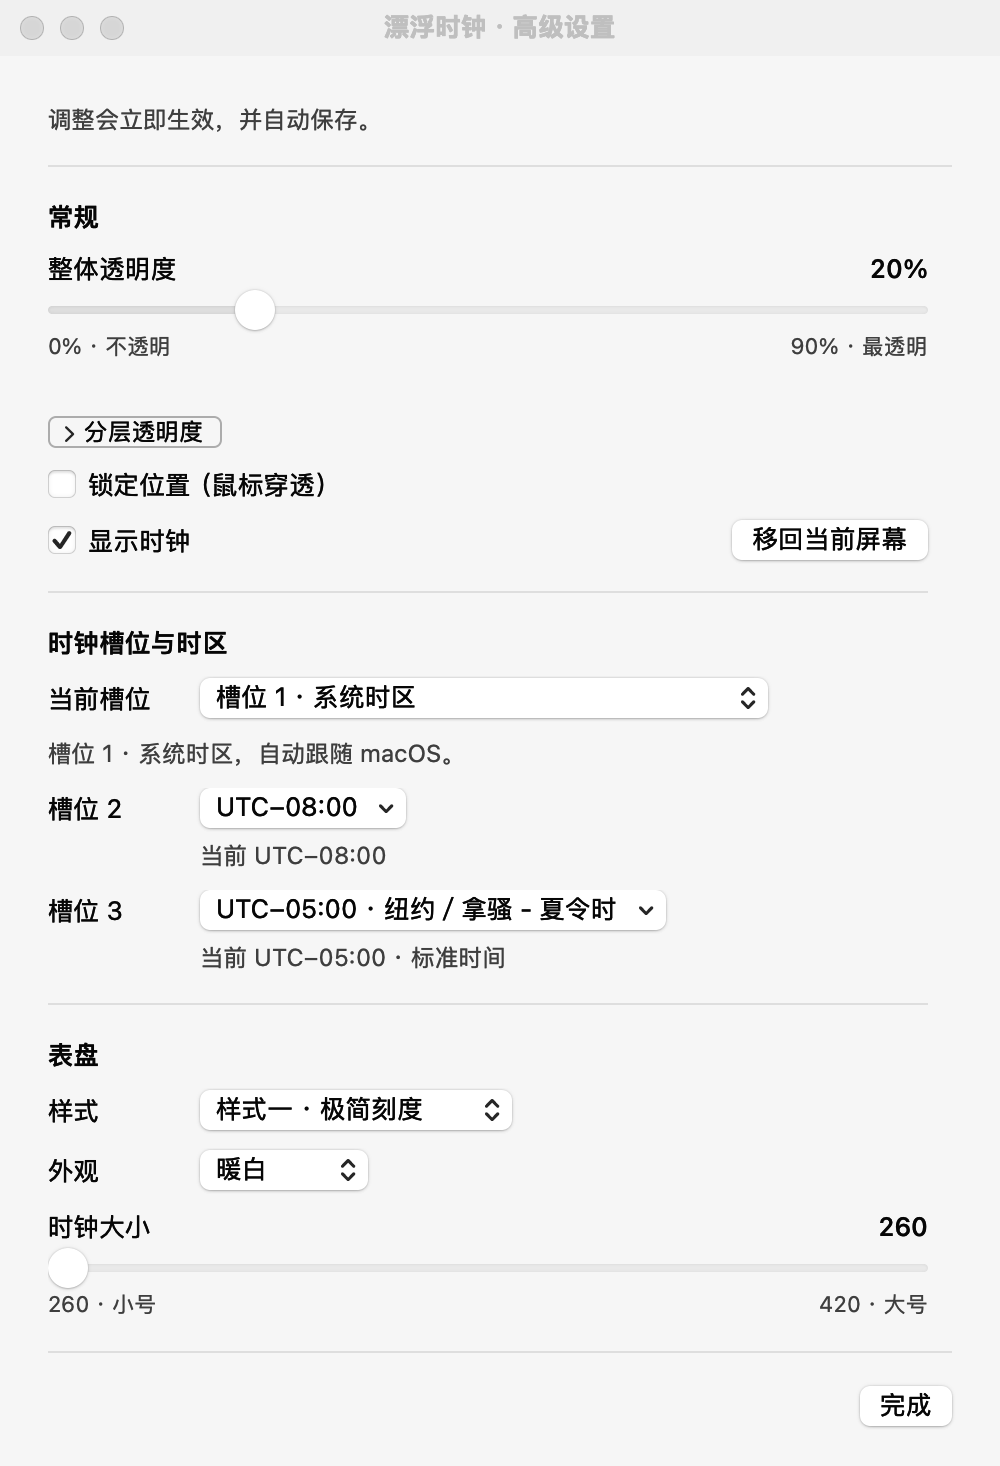
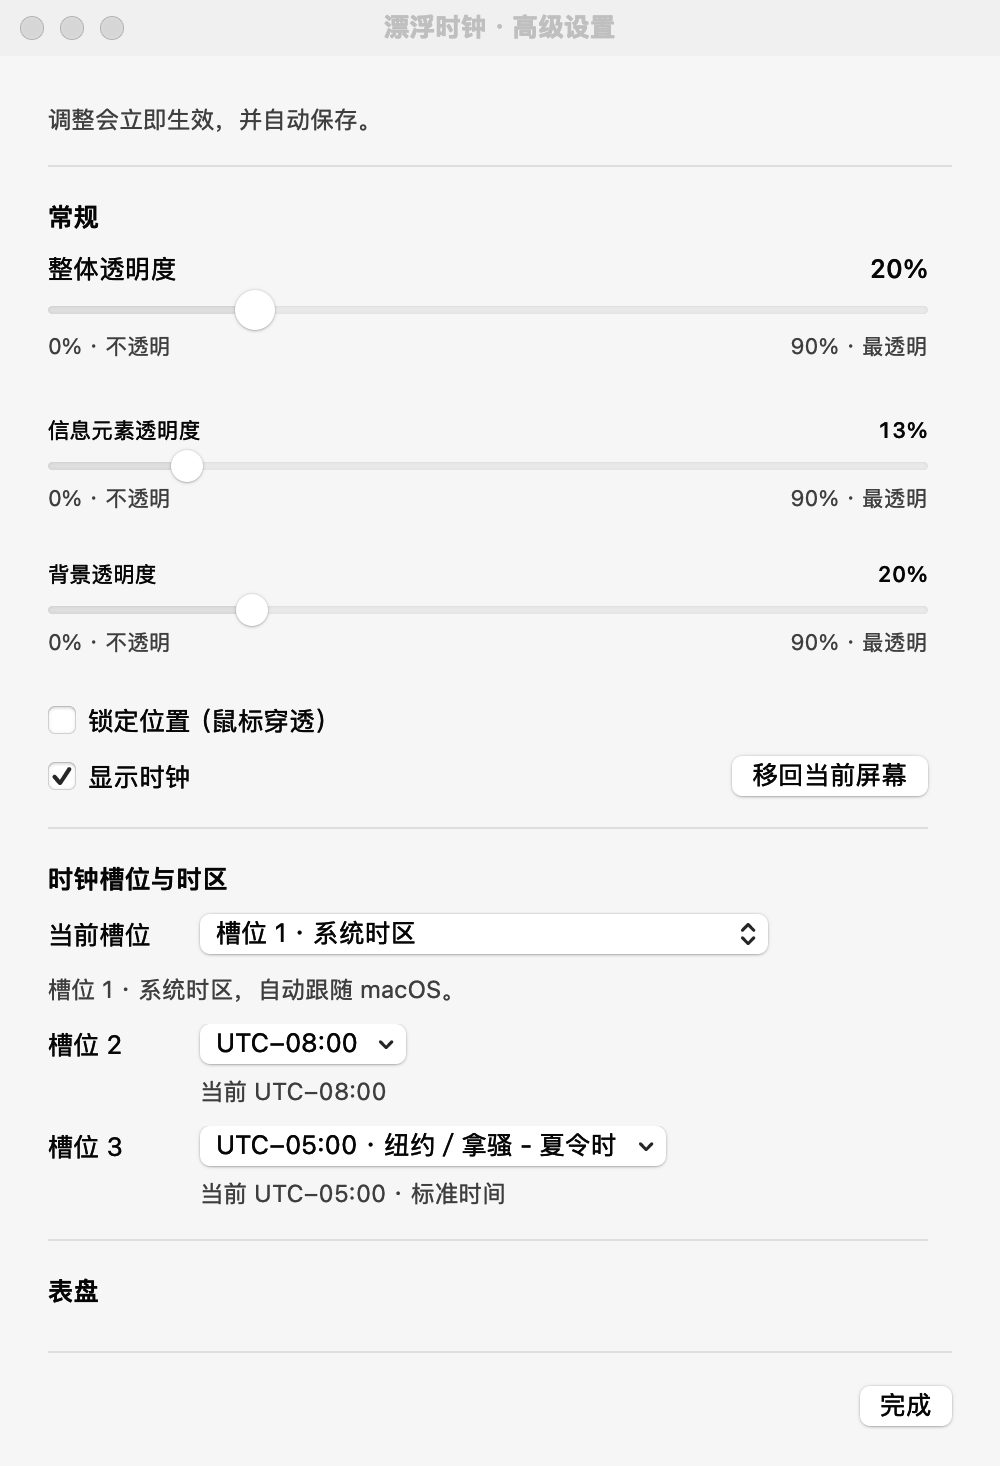
Show layer transparency controls in advanced settings

diff --git a/Sources/FloatingClock/RuntimeChecks.swift b/Sources/FloatingClock/RuntimeChecks.swift
@@ -105,28 +105,30 @@ enum RuntimeChecks {
         let layerItems = controller.menu.items.filter {
             $0.view === controller.contentTransparencyView || $0.view === controller.backgroundTransparencyView
         }
+        let layerViews = [controller.contentTransparencyView, controller.backgroundTransparencyView]
+        let layerRows = [advanced.contentTransparencyRow, advanced.backgroundTransparencyRow]
+        check(controller.transparencyView.slider.controlSize == .regular && advanced.transparencyRow.slider.controlSize == .regular &&
+              layerViews.allSatisfy { $0.slider.controlSize == .small } && layerRows.allSatisfy { $0.slider.controlSize == .small },
+              "overall transparency uses the regular native slider and both layers use small native sliders in both interfaces")
+        check(zip(layerViews, layerRows).allSatisfy { menuView, settingsRow in
+            let menuTitle = menuView.subviews.compactMap { $0 as? NSTextField }.first { $0.stringValue == menuView.title }
+            let settingsTitle = settingsRow.subviews.compactMap { $0 as? NSTextField }.first { $0.stringValue == settingsRow.title }
+            return menuTitle?.font?.pointSize == 11 && settingsTitle?.font?.pointSize == 11
+        }, "both interfaces use matching smaller labels for the layer sliders")
         let menuDisclosure = controller.transparencyDisclosureButton
-        let settingsDisclosure = advanced.transparencyDisclosureButton
         let disclosureMenuItem = controller.menu.items.first { $0.view === menuDisclosure }
         check(disclosureMenuItem != nil && menuDisclosure.frame.width == controller.transparencyView.frame.width &&
-              settingsDisclosure.frame.width > 0 && settingsDisclosure.frame.width == advanced.transparencyRow.frame.width &&
-              [menuDisclosure, settingsDisclosure].allSatisfy { button in
-                  [1, button.bounds.midX, button.bounds.maxX - 1].allSatisfy { x in
-                      let point = NSPoint(x: x, y: button.bounds.midY)
-                      return button.hitTest(button.convert(point, to: button.superview)) === button
-                  }
-              }, "both disclosure buttons cover and receive clicks across the full row")
+              [1, menuDisclosure.bounds.midX, menuDisclosure.bounds.maxX - 1].allSatisfy { x in
+                  let point = NSPoint(x: x, y: menuDisclosure.bounds.midY)
+                  return menuDisclosure.hitTest(menuDisclosure.convert(point, to: menuDisclosure.superview)) === menuDisclosure
+              }, "the menu disclosure button receives clicks across the full row")
         check(layerItems.count == 2 && layerItems.allSatisfy(\.isHidden) && !menuDisclosure.isExpanded &&
-              advanced.contentTransparencyRow.isHidden && advanced.backgroundTransparencyRow.isHidden && !settingsDisclosure.isExpanded,
-              "both transparency controls start with their layer sliders collapsed")
-        let collapsedHeight = scroll.documentView?.frame.height ?? 0
+              layerRows.allSatisfy { !$0.isHidden && $0.superview != nil && $0.frame.height > 0 },
+              "layer sliders start collapsed in the menu and laid out in advanced settings")
+        let settingsHeight = scroll.documentView?.frame.height ?? 0
         _ = menuDisclosure.sendAction(menuDisclosure.action, to: menuDisclosure.target)
-        settingsDisclosure.performClick(nil)
-        advanced.window?.contentView?.layoutSubtreeIfNeeded()
-        check(menuDisclosure.isExpanded && layerItems.allSatisfy { !$0.isHidden } &&
-              settingsDisclosure.isExpanded && !advanced.contentTransparencyRow.isHidden && !advanced.backgroundTransparencyRow.isHidden &&
-              (scroll.documentView?.frame.height ?? 0) > collapsedHeight + 130,
-              "expanding reveals both sliders and grows the settings scroll document")
+        check(menuDisclosure.isExpanded && layerItems.allSatisfy { !$0.isHidden },
+              "expanding the menu disclosure reveals both layer sliders")
 
         check(controller.clockSlotItems.count == 3 && advanced.clockSlotPopup.numberOfItems == 3 &&
               controller.clockSlotItems.map(\.state) == [.on, .off, .off],
@@ -245,12 +247,11 @@ enum RuntimeChecks {
               "adjusting background leaves content unchanged even when the background is more opaque")
         let manualSettings = store.load()
         _ = menuDisclosure.sendAction(menuDisclosure.action, to: menuDisclosure.target)
-        settingsDisclosure.performClick(nil)
         advanced.window?.contentView?.layoutSubtreeIfNeeded()
         check(!menuDisclosure.isExpanded && layerItems.allSatisfy(\.isHidden) &&
-              !settingsDisclosure.isExpanded && advanced.contentTransparencyRow.isHidden && advanced.backgroundTransparencyRow.isHidden &&
-              abs((scroll.documentView?.frame.height ?? 0) - collapsedHeight) < 1 && store.load() == manualSettings,
-              "collapsing removes the layer controls from layout and preserves the saved manual settings")
+              layerRows.allSatisfy { !$0.isHidden } &&
+              abs((scroll.documentView?.frame.height ?? 0) - settingsHeight) < 1 && store.load() == manualSettings,
+              "collapsing the menu preserves advanced settings layout and the saved manual settings")
         _ = advancedTransparency.sendAction(advancedTransparency.action, to: advancedTransparency.target)
         check(!store.load().usesCustomTransparency && controller.backgroundTransparencyView.slider.doubleValue == 31 &&
               controller.contentTransparencyView.slider.doubleValue == store.load().contentTransparency &&
@@ -286,6 +287,7 @@ enum RuntimeChecks {
             return own + view.subviews.flatMap { labels($0) }
         }
         let settingsLabels = advanced.window?.contentView.map { labels($0) } ?? []
+        check(!settingsLabels.contains("分层透明度"), "advanced settings has no layer disclosure button")
         check(!settingsLabels.contains("高级设置") && !settingsLabels.contains("退出漂浮时钟"),
               "settings body has no duplicate heading or quit control")
 

diff --git a/Sources/FloatingClock/AdvancedSettingsWindowController.swift b/Sources/FloatingClock/AdvancedSettingsWindowController.swift
@@ -28,7 +28,7 @@ final class SettingsSliderRow: NSView {
     }
 
     init(title: String, value: Double, range: ClosedRange<Double>, suffix: String = "%",
-         lowText: String, highText: String, help: String) {
+         controlSize: NSControl.ControlSize = .regular, lowText: String, highText: String, help: String) {
         slider = NSSlider(value: value, minValue: range.lowerBound, maxValue: range.upperBound,
                           target: nil, action: nil)
         titleLabel = NSTextField(labelWithString: title)
@@ -36,14 +36,17 @@ final class SettingsSliderRow: NSView {
         super.init(frame: .zero)
         let low = NSTextField(labelWithString: lowText)
         let high = NSTextField(labelWithString: highText)
-        titleLabel.font = .systemFont(ofSize: 13)
-        valueLabel.font = .monospacedDigitSystemFont(ofSize: 13, weight: .medium)
+        let isSmall = controlSize == .small
+        let fontSize: CGFloat = isSmall ? 11 : 13
+        titleLabel.font = .systemFont(ofSize: fontSize)
+        valueLabel.font = .monospacedDigitSystemFont(ofSize: fontSize, weight: .medium)
         valueLabel.alignment = .right
         for label in [low, high] {
             label.font = .systemFont(ofSize: 11)
             label.textColor = .secondaryLabelColor
         }
         high.alignment = .right
+        slider.controlSize = controlSize
         slider.isContinuous = true
         slider.target = self
         slider.action = #selector(sliderChanged)
@@ -55,7 +58,7 @@ final class SettingsSliderRow: NSView {
             addSubview(view)
         }
         NSLayoutConstraint.activate([
-            heightAnchor.constraint(equalToConstant: 72),
+            heightAnchor.constraint(equalToConstant: isSmall ? 62 : 72),
             titleLabel.topAnchor.constraint(equalTo: topAnchor),
             titleLabel.leadingAnchor.constraint(equalTo: leadingAnchor),
             titleLabel.trailingAnchor.constraint(lessThanOrEqualTo: valueLabel.leadingAnchor, constant: -8),
@@ -227,12 +230,11 @@ final class AdvancedSettingsWindowController: NSWindowController, NSWindowDelega
     let transparencyRow = SettingsSliderRow(
         title: "整体透明度", value: 20, range: 0...90,
         lowText: "0% · 不透明", highText: "90% · 最透明", help: "重新联动背景和信息元素。中间档位的信息元素稍清晰，滑块两端使用相同透明度。")
-    let transparencyDisclosureButton = TransparencyDisclosureButton()
     let contentTransparencyRow = SettingsSliderRow(
-        title: "信息元素透明度", value: 20, range: 0...90,
+        title: "信息元素透明度", value: 20, range: 0...90, controlSize: .small,
         lowText: "0% · 不透明", highText: "90% · 最透明", help: "单独调整刻度、指针、文字、分钟大字和计时器。")
     let backgroundTransparencyRow = SettingsSliderRow(
-        title: "背景透明度", value: 20, range: 0...90,
+        title: "背景透明度", value: 20, range: 0...90, controlSize: .small,
         lowText: "0% · 不透明", highText: "90% · 最透明", help: "单独调整时钟底板和阴影。")
     let faceSizeRow = SettingsSliderRow(
         title: "时钟大小", value: Double(ClockLayout.minimumFaceSize), range: Double(ClockLayout.minimumFaceSize)...Double(ClockLayout.maximumFaceSize), suffix: "",
@@ -300,12 +302,8 @@ final class AdvancedSettingsWindowController: NSWindowController, NSWindowDelega
         let visibilityRow = NSStackView(views: [visibilityButton, NSView(), moveToScreenButton])
         visibilityRow.orientation = .horizontal
         visibilityRow.alignment = .centerY
-        transparencyDisclosureButton.target = self
-        transparencyDisclosureButton.action = #selector(toggleTransparencyDetails)
-        let general = stack([heading("常规"), transparencyRow, transparencyDisclosureButton,
+        let general = stack([heading("常规"), transparencyRow,
                              contentTransparencyRow, backgroundTransparencyRow, lockButton, visibilityRow])
-        contentTransparencyRow.isHidden = true
-        backgroundTransparencyRow.isHidden = true
 
         clockSlotPopup.addItems(withTitles: ClockSlot.allCases.map { settings.title(for: $0) })
         clockSlotPopup.target = self
@@ -484,11 +482,6 @@ final class AdvancedSettingsWindowController: NSWindowController, NSWindowDelega
         onSettingsChanged?(settings)
     }
 
-    @objc private func toggleTransparencyDetails() {
-        transparencyDisclosureButton.isExpanded.toggle()
-        contentTransparencyRow.isHidden = !transparencyDisclosureButton.isExpanded
-        backgroundTransparencyRow.isHidden = !transparencyDisclosureButton.isExpanded
-    }
     @objc private func styleChanged() { change { $0.style = ClockStyle.allCases[stylePopup.indexOfSelectedItem] } }
     @objc private func clockSlotChanged() { change { $0.selectedClockSlot = ClockSlot.allCases[clockSlotPopup.indexOfSelectedItem] } }
     @objc private func appearanceChanged() { change { $0.appearance = ClockAppearance.allCases[appearancePopup.indexOfSelectedItem] } }

diff --git a/Sources/FloatingClock/MenuController.swift b/Sources/FloatingClock/MenuController.swift
@@ -15,19 +15,24 @@ final class PercentageMenuView: NSView {
         }
     }
 
-    init(title: String, help: String) {
+    init(title: String, controlSize: NSControl.ControlSize = .regular, help: String) {
         slider = NSSlider(value: 0, minValue: 0, maxValue: 90, target: nil, action: nil)
         titleLabel = NSTextField(labelWithString: title)
         valueLabel = NSTextField(labelWithString: "")
-        super.init(frame: CGRect(x: 0, y: 0, width: 286, height: 58))
-        titleLabel.font = .systemFont(ofSize: 12, weight: .medium)
-        titleLabel.frame = CGRect(x: 20, y: 34, width: 184, height: 18)
+        let isSmall = controlSize == .small
+        let rowHeight: CGFloat = isSmall ? 50 : 58
+        let fontSize: CGFloat = isSmall ? 11 : 12
+        let labelY = rowHeight - 24
+        super.init(frame: CGRect(x: 0, y: 0, width: 286, height: rowHeight))
+        titleLabel.font = .systemFont(ofSize: fontSize, weight: .medium)
+        titleLabel.frame = CGRect(x: 20, y: labelY, width: 184, height: 18)
         addSubview(titleLabel)
-        valueLabel.font = .monospacedDigitSystemFont(ofSize: 12, weight: .semibold)
+        valueLabel.font = .monospacedDigitSystemFont(ofSize: fontSize, weight: .semibold)
         valueLabel.alignment = .right
-        valueLabel.frame = CGRect(x: 212, y: 34, width: 54, height: 18)
+        valueLabel.frame = CGRect(x: 212, y: labelY, width: 54, height: 18)
         addSubview(valueLabel)
-        slider.frame = CGRect(x: 18, y: 5, width: 250, height: 25)
+        slider.controlSize = controlSize
+        slider.frame = CGRect(x: 18, y: 5, width: 250, height: isSmall ? 20 : 25)
         slider.isContinuous = true
         slider.target = self
         slider.action = #selector(sliderChanged)
@@ -57,8 +62,10 @@ final class MenuController: NSObject, NSMenuDelegate {
     let quickMenu = NSMenu()
     let transparencyView = PercentageMenuView(title: "整体透明度", help: "联动背景和信息元素，中间档位的信息元素稍清晰。")
     let transparencyDisclosureButton = TransparencyDisclosureButton(horizontalInset: 20)
-    let contentTransparencyView = PercentageMenuView(title: "信息元素透明度", help: "单独调整刻度、指针、文字、分钟大字和计时器。")
-    let backgroundTransparencyView = PercentageMenuView(title: "背景透明度", help: "单独调整时钟底板和阴影。")
+    let contentTransparencyView = PercentageMenuView(
+        title: "信息元素透明度", controlSize: .small, help: "单独调整刻度、指针、文字、分钟大字和计时器。")
+    let backgroundTransparencyView = PercentageMenuView(
+        title: "背景透明度", controlSize: .small, help: "单独调整时钟底板和阴影。")
     private let layerTransparencyItems = [NSMenuItem(), NSMenuItem()]
     private var statusItem: NSStatusItem?
     private let subtitle = NSTextField(labelWithString: "始终置顶 · 拖动表盘移动")

diff --git a/README.md b/README.md
@@ -12,7 +12,7 @@
 
 - **悬浮置顶**：显示在普通应用窗口和浮动面板上方，不抢走键盘焦点。
 - **自由拖动**：未锁定时，按住表盘拖动；位置自动保存。
-- **透明度**。在菜单栏或高级设置中调整整体透明度，展开“分层透明度”可单独调整信息元素和背景。范围均为 0%～90%。
+- **透明度**。在菜单栏或高级设置中调整整体透明度。菜单栏展开“分层透明度”后可单独调整信息元素和背景，高级设置直接显示这两项。范围均为 0%～90%。
 - **两种表盘**：样式一使用极简刻度；样式二显示 12、3、6、9。
 - **分钟大字**：可叠加在任一表盘上，使用 Comic Sans MS，并独立调整浓度和大小。
 - **独立高级设置**：集中管理样式、外观、大小、显示内容和分钟大字。
@@ -184,9 +184,9 @@ open dist/FloatingClock.app
 
 点击 **菜单栏时钟图标 → 高级设置…**，打开独立设置窗口。
 
-窗口顶部的“常规”区域也提供整体透明度、可展开的分层透明度、锁定、显示或隐藏时钟及移回当前屏幕。退出应用请使用菜单栏。菜单栏、快捷菜单和高级设置的状态实时同步。隐藏时钟后，设置窗口仍可操作。“移回当前屏幕”会重新显示时钟。设置内容可上下滚动。
+窗口顶部的“常规”区域依次显示整体透明度、信息元素透明度和背景透明度，下面提供锁定、显示或隐藏时钟及移回当前屏幕。退出应用请使用菜单栏。菜单栏、快捷菜单和高级设置的状态实时同步。隐藏时钟后，设置窗口仍可操作。“移回当前屏幕”会重新显示时钟。设置内容可上下滚动。
 
-<img src='docs/images/advanced-settings.png' alt='高级设置中的整体透明度、分层透明度按钮、时钟槽位和时区选择' width='500'>
+<img src='docs/images/advanced-settings.png' alt='高级设置中的整体透明度、信息元素透明度、背景透明度和时区选择' width='500'>
 
 图中展示常规设置、时钟槽位和表盘选项；向下滚动可调整显示内容、分钟大字和计时格式。所有控件的修改都会立即应用到时钟并保存；“完成”用于关闭窗口，不需要额外点击保存。关闭窗口不会退出时钟，再次打开会显示当前设置。
 
